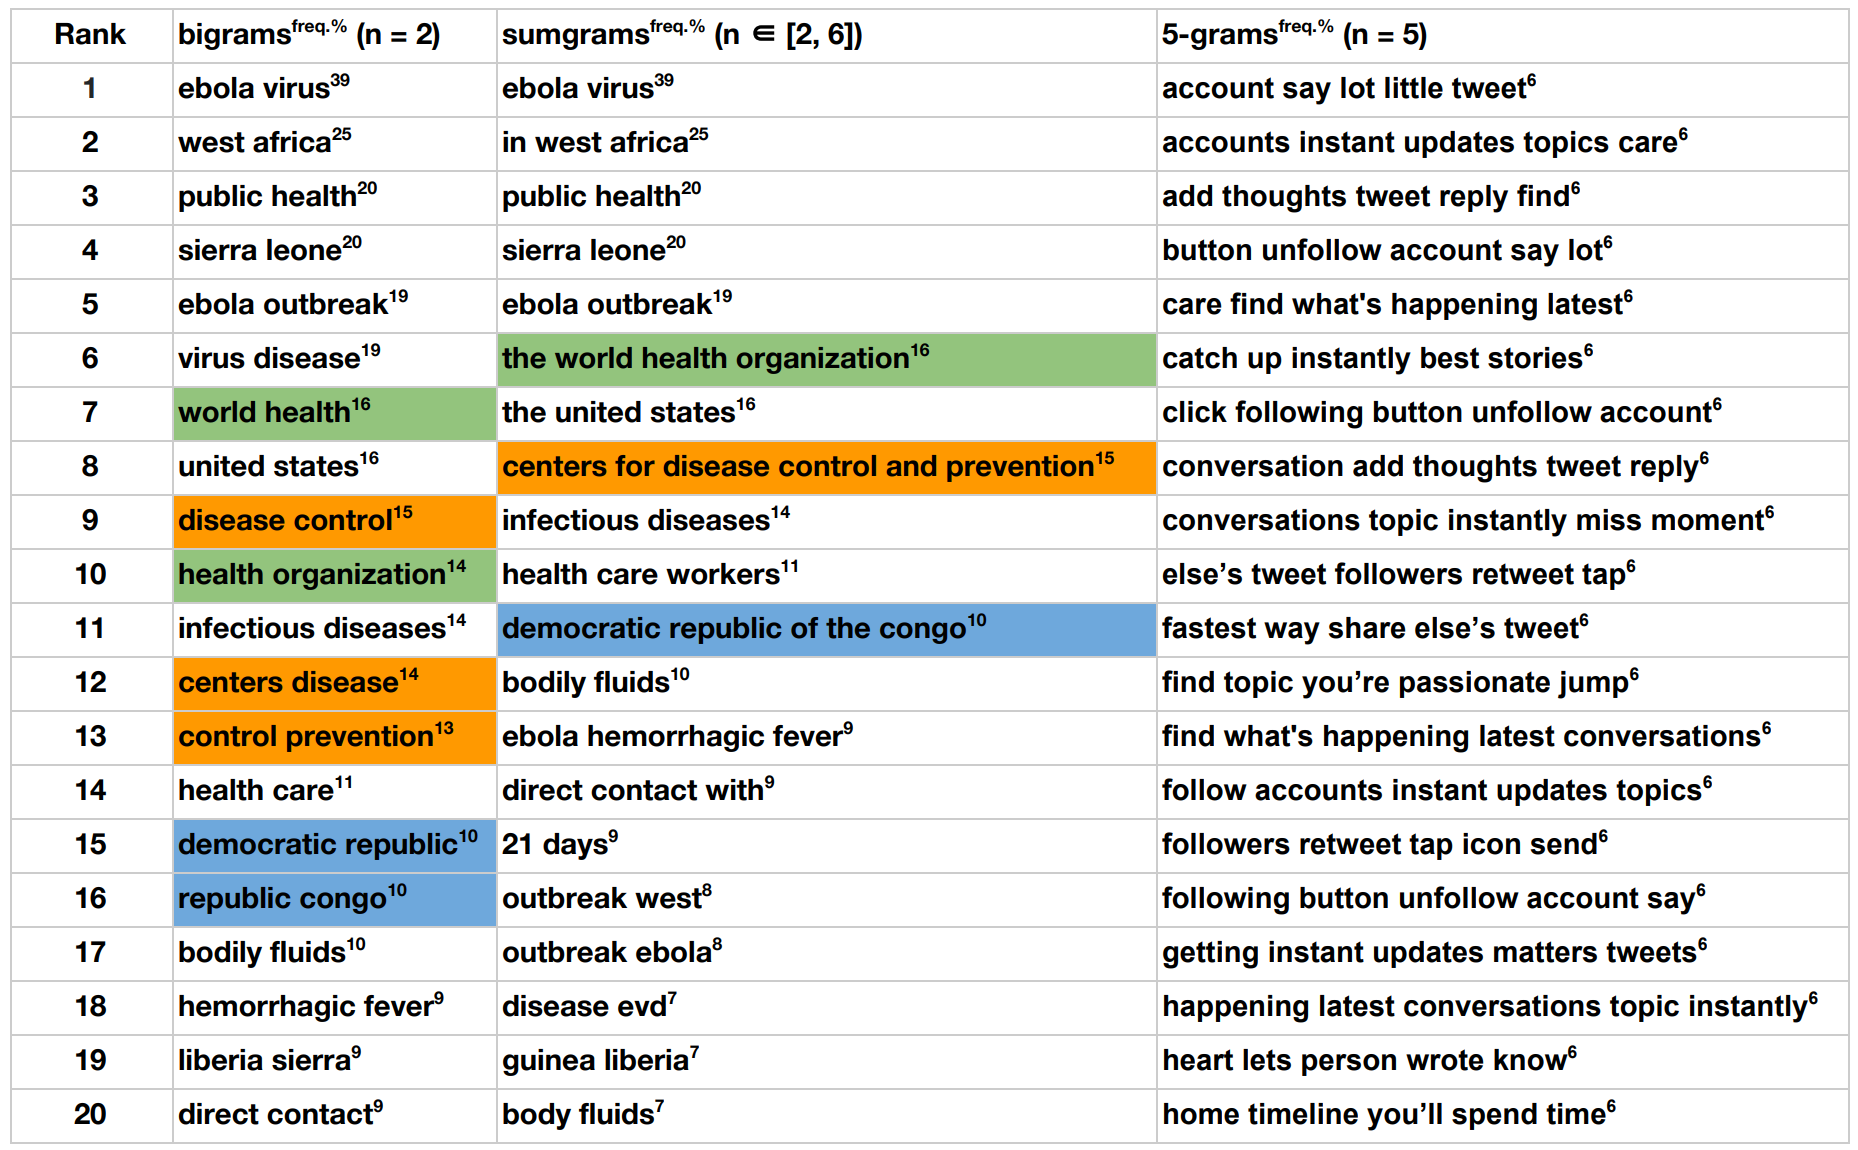
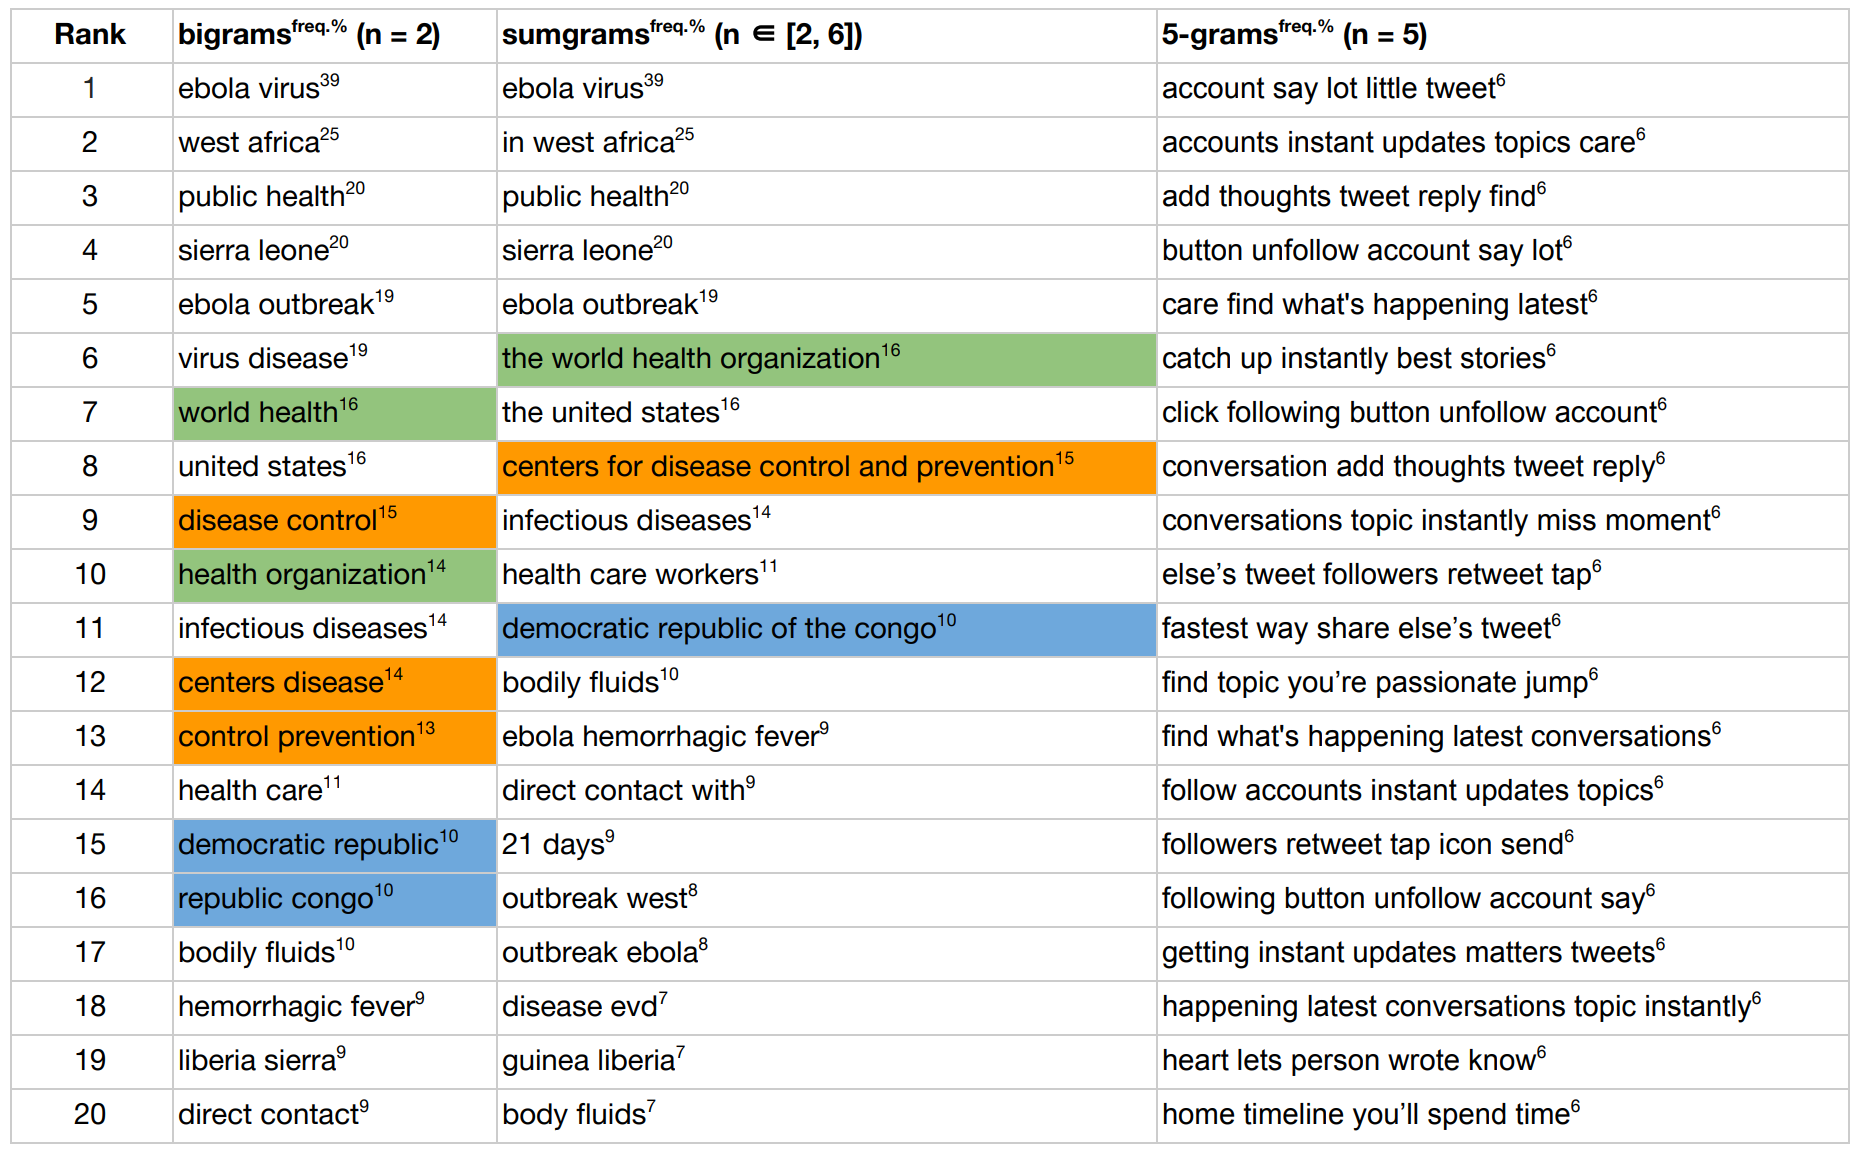
more documentation for sumgram, unbold in image

diff --git a/README.md b/README.md
@@ -293,5 +293,5 @@ both  MWPN: "federal emergency management agency" occurrence rate: 0.625
 
 ## Sumgrams vs. LDA
 
-*Fig. 3: Comparison of top LDA topics and top 20 sumgrams (conjoined ngrams) generated by sumgram for a collection of documents about [Hurricane Harvey](https://en.wikipedia.org/wiki/Hurricane_Harvey).
+*Fig. 3: Comparison of top LDA topics and top 20 sumgrams (conjoined ngrams) generated by sumgram for a collection of documents about [Hurricane Harvey](https://en.wikipedia.org/wiki/Hurricane_Harvey).*
 <img src="pics/sumgrams_v_lda.png" alt="sumgrams vs lda" style="width: 50%;"/>
